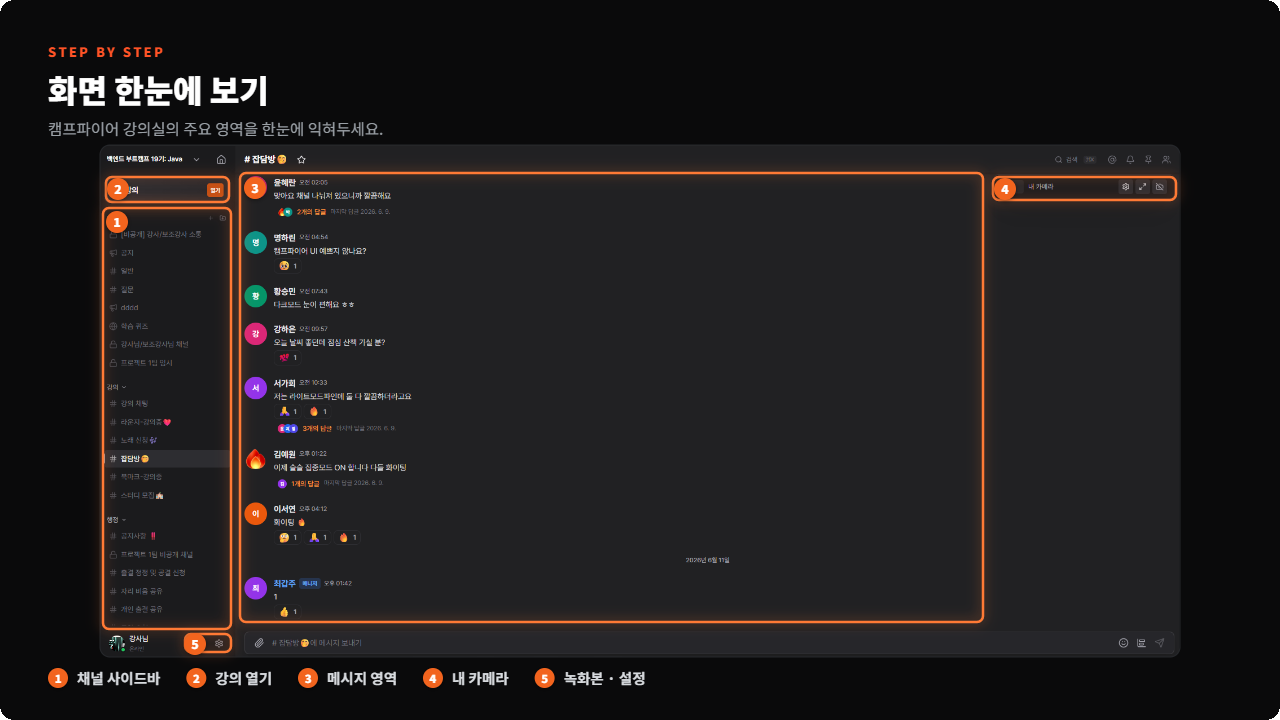
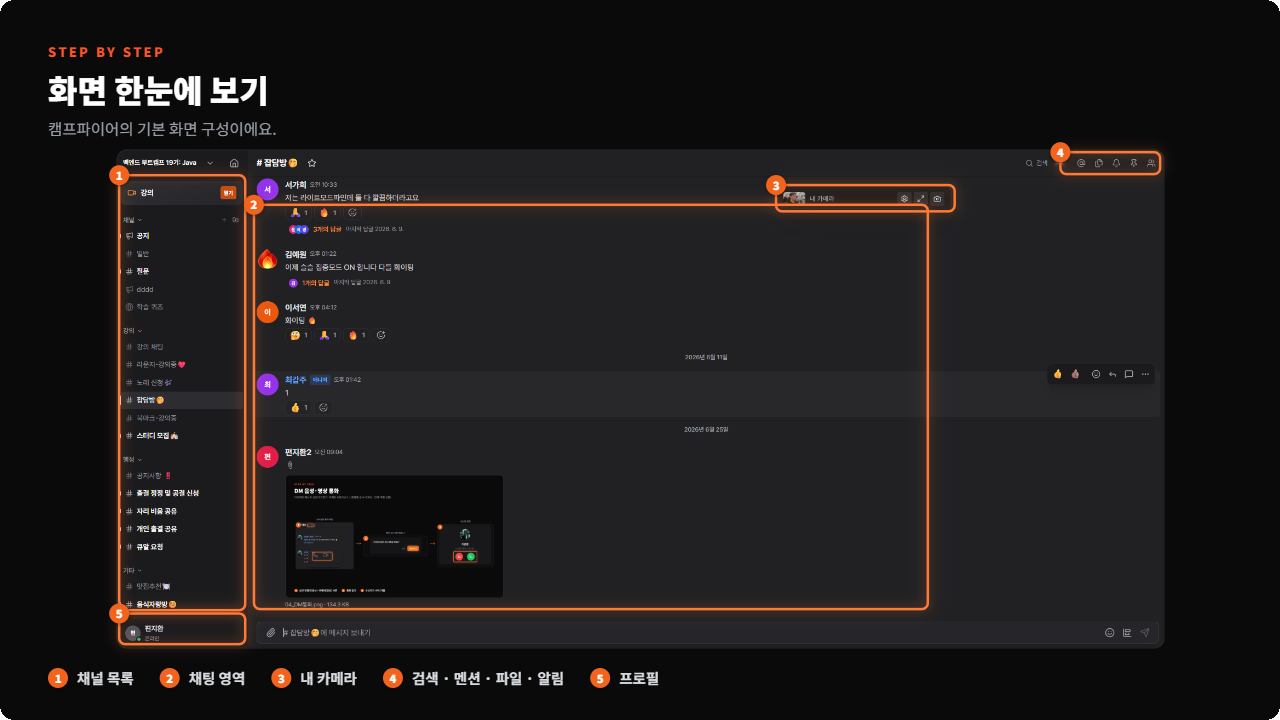
docs(campfire-guide): 채널 파일 모아보기 기능 추가 + 화면 구성 이미지 교체
- 채널 파일 모아보기 신규 섹션 3종(매니저 s3-2·강사 i3-1·수강생 s3-1)
  상단 파일 버튼 → [파일] 패널에서 채널 파일 목록·검색·다운로드
- 화면 한눈에 보기 이미지 교체(매니저용/수강생·강사용 분리), 툴바 파일 버튼 반영
- 화면 구성 설명 우측 상단 아이콘에 '멤버' 앞 파일 추가(검색·멘션·파일·알림·멤버)
- 파일 모아보기 스크린샷 3장 신규 (총 52장)

diff --git a/campfire/1-planning/campfire-guide/manager-data.js b/campfire/1-planning/campfire-guide/manager-data.js
@@ -143,7 +143,7 @@ const GUIDE_DATA = [
       {
         id: "s3-1", title: "화면 한눈에 보기",
         html: `
-          <div class="callout callout--tip"><span class="callout__ico">💡</span><div>디스코드를 써봤다면 구조가 거의 동일합니다. 왼쪽에서 오른쪽으로: <strong>채널 목록(사이드바) → 대화 영역 → 우측 상단 아이콘(검색·알림·멤버)</strong>.</div></div>
+          <div class="callout callout--tip"><span class="callout__ico">💡</span><div>디스코드를 써봤다면 구조가 거의 동일합니다. 왼쪽에서 오른쪽으로: <strong>채널 목록(사이드바) → 대화 영역 → 우측 상단 아이콘(검색·멘션·파일·알림·멤버)</strong>.</div></div>
           <dl class="anatomy">
             <dt>① 사이드바 (좌측)</dt>
             <dd>
@@ -162,10 +162,23 @@ const GUIDE_DATA = [
             <dd>우측 상단 멤버 아이콘(👥) 클릭 시 표시. <strong>역할별로 구분</strong>되어 보입니다: 매니저 / 강사 / 보조강사 / 멘토 / 수강생.</dd>
             <dt>④ 화상 채널 영역</dt>
             <dd>사이드바 화상 채널 카테고리에 모여 있음 (예: 프로젝트 1~4팀, 회고방). 상세는 7장.</dd>
-            <dt>⑤ 검색 / 알림 (우측 상단)</dt>
-            <dd>🔍 검색(단축키) / @ 멘션 모아보기 / 🔔 알림 / 📌 고정된 메시지</dd>
+            <dt>⑤ 검색 / 파일 / 알림 (우측 상단)</dt>
+            <dd>🔍 검색(단축키) / @ 멘션 모아보기 / 📁 파일(채널 파일 모아보기·3-2) / 🔔 알림 / 📌 고정된 메시지</dd>
           </dl>
           <div class="shot">📸 스크린샷: 전체 화면에 ①~⑤ 번호를 오버레이한 이미지 1장</div>
+        `,
+      },
+      {
+        id: "s3-2", title: "채널 파일 모아보기",
+        html: `
+          <p>채널 <strong>상단 우측 툴바의 파일 버튼(📁)</strong>을 누르면, 그 채널에 올라온 <strong>모든 파일을 한 곳에서 모아보고 다운로드</strong>할 수 있습니다. (위치: 검색 · @멘션 · <strong>파일</strong> · 알림 사이)</p>
+          <ol>
+            <li>채널 <strong>상단 우측의 파일 버튼</strong> 클릭</li>
+            <li>오른쪽에 <strong>[파일] 패널</strong>이 열리며 채널의 파일 목록이 표시됩니다.</li>
+            <li><strong>파일명 검색</strong>으로 원하는 파일을 찾고, 각 파일의 <strong>다운로드(⬇) 아이콘</strong>으로 저장합니다.</li>
+          </ol>
+          <div class="callout callout--tip"><span class="callout__ico">💡</span><div>과제·자료가 채팅에 묻혀 찾기 어려울 때, 파일 버튼으로 채널별 자료를 한눈에 모아 관리하세요.</div></div>
+          <div class="shot">📸 스크린샷: 상단 파일 버튼 → 채널 파일 목록·검색·다운로드</div>
         `,
       },
     ],

diff --git a/campfire/1-planning/campfire-guide/instructor-data.js b/campfire/1-planning/campfire-guide/instructor-data.js
@@ -87,7 +87,7 @@ const GUIDE_DATA = [
     sections:[
       { id:"i3-0", title:"화면 한눈에 보기",
         html:`
-          <div class="callout callout--tip"><span class="callout__ico">💡</span><div>디스코드와 구조가 거의 같습니다. 왼쪽에서 오른쪽으로: <strong>채널 목록 → 대화 영역 → 우측 상단 아이콘(검색·알림·멤버)</strong>.</div></div>
+          <div class="callout callout--tip"><span class="callout__ico">💡</span><div>디스코드와 구조가 거의 같습니다. 왼쪽에서 오른쪽으로: <strong>채널 목록 → 대화 영역 → 우측 상단 아이콘(검색·멘션·파일·알림·멤버)</strong>.</div></div>
           <ul>
             <li><strong>① 사이드바</strong>: 최상단 현재 훈련(공간) 이름, 그 아래 <strong>[강의] 카드</strong>(열기/Live), 카테고리별 채널, 화상 채널, 하단 DM·내 프로필</li>
             <li><strong>② 메시지 영역</strong>: 메시지 스트림, 하단 입력창(📎 첨부·이모지), [최하단으로 이동]</li>
@@ -96,6 +96,15 @@ const GUIDE_DATA = [
             <li>강사에게만 보이는 컨트롤: <strong>[강의] 카드의 [열기] 버튼</strong> (강의 개설은 매니저·강사만)</li>
           </ul>
           <div class="shot">📸 스크린샷: 강사 화면 전체, ①~④ 번호 오버레이</div>` },
+      { id:"i3-1", title:"채널 파일 모아보기",
+        html:`
+          <p>채널 상단 우측 <strong>파일 버튼(📁)</strong>으로 그 채널의 <strong>모든 파일을 모아보고 다운로드</strong>할 수 있습니다. (검색 · @멘션 · <strong>파일</strong> · 알림 사이)</p>
+          <ol>
+            <li>채널 상단 우측 툴바의 <strong>파일 버튼</strong> 클릭</li>
+            <li>오른쪽 <strong>[파일] 패널</strong>에 파일 목록 표시 → <strong>파일명 검색</strong> + <strong>다운로드(⬇)</strong></li>
+          </ol>
+          <div class="callout callout--tip"><span class="callout__ico">💡</span><div>수업 자료·과제 파일을 채널별로 한눈에 모아 확인·공유할 수 있어요.</div></div>
+          <div class="shot">📸 스크린샷: 상단 파일 버튼 → 채널 파일 목록·검색·다운로드</div>` },
     ],
   },
   {

diff --git a/campfire/1-planning/campfire-guide/student-data.js b/campfire/1-planning/campfire-guide/student-data.js
@@ -93,6 +93,16 @@ const GUIDE_DATA = [
             </tbody>
           </table>
           <div class="callout callout--tip"><span class="callout__ico">💡</span><div>채널 구성은 과정마다 조금씩 달라요. 맨 위 [강의] 버튼은 <strong>강사님이 여는 정식 수업</strong>, 🎤 화상 채널은 <strong>팀별 모임</strong>용이에요.</div></div>` },
+      { id:"s3-1", title:"채널 파일 모아보기",
+        html:`
+          <p>채널 <strong>맨 위 오른쪽 파일 버튼(📁)</strong>을 누르면, 그 채널에 올라온 <strong>파일을 한 곳에서 모아보고 다운로드</strong>할 수 있어요.</p>
+          <ol>
+            <li>채널 <strong>오른쪽 위 파일 버튼</strong>을 눌러요.</li>
+            <li>오른쪽에 <strong>[파일] 목록</strong>이 열려요.</li>
+            <li><strong>파일명으로 검색</strong>하고, <strong>다운로드(⬇)</strong>로 저장하면 돼요.</li>
+          </ol>
+          <div class="callout callout--tip"><span class="callout__ico">💡</span><div>강의 자료·과제 파일이 채팅에 묻혔을 때, 파일 버튼으로 한 번에 찾을 수 있어요!</div></div>
+          <div class="shot">📸 스크린샷: 상단 파일 버튼 → 채널 파일 목록·검색·다운로드</div>` },
     ],
   },
   {

diff --git a/campfire/1-planning/campfire-guide/images/_README-스크린샷-목록.md b/campfire/1-planning/campfire-guide/images/_README-스크린샷-목록.md
@@ -9,7 +9,8 @@
 | `manager-s2-1-1.png` | 2.시작하기 · 계정 & 입장 구조 이해하기 | 프로필 > 캠프파이어 앱 받기 모달 (데스크톱 + 모바일 QR) | ✅ |
 | `manager-s2-4-1.png` | 2.시작하기 · 알림 설정 | 기본 알림 설정 (프로필 > 설정 > 알림 — 멘션만) | ✅ |
 | `manager-s2-4-2.png` | 2.시작하기 · 알림 설정 | 채널별 알림 설정 (채널 케밥 메뉴) | ✅ |
-| `manager-s3-1-1.png` | 3.화면 구성 · 화면 한눈에 보기 | 전체 화면에 ①~⑤ 번호를 오버레이한 이미지 1장 | ✅ |
+| `manager-s3-1-1.png` | 3.화면 구성 · 화면 한눈에 보기 | 전체 화면 ①~⑤ 오버레이 (④ 검색·멘션·파일·알림 포함) | ✅ |
+| `manager-s3-2-1.png` | 3.화면 구성 · 채널 파일 모아보기 | 상단 파일 버튼 → 채널 파일 목록·검색·다운로드 패널 | ✅ |
 | `manager-s4-1-1.png` | 4.채널 관리 · 채널 종류 이해하기 (QR 확인) | 매니저 [모니터링] 버튼 > [QR 조회] 탭 (수강생 QR 인증 기록) | ✅ |
 | `manager-s4-2-1.png` | 4.채널 관리 · 채널 만들기 | [+] 버튼 위치 / 채널 만들기 모달 / 비공개 설정 + 멤버·그룹 초대 | ✅ |
 | `manager-s4-3-1.png` | 4.채널 관리 · 채널 권한 설정 (공개·비공개·익명) | 채널 권한 설정 화면 | ✅ |
@@ -28,7 +29,7 @@
 | `manager-s8-5-1.png` | 8.운영 팁 모음 · 공간 기본 설정 (설정 > 일반) | 설정 > 일반 — 홈페이지 URL·배너 | ✅ |
 | `manager-s8-6-1.png` | 8.운영 팁 모음 · 카메라 자동 캡처 (출석 확인) | 설정 > 일반 — 카메라 자동 캡처 규칙·제외일 | ✅ |
 
-→ 매니저: 22장
+→ 매니저: 23장
 
 ## 강사 (instructor-data.js)
 
@@ -39,7 +40,8 @@
 | `instructor-i2-3-1.png` | 2.시작하기 · 오디오 / 비디오 장치 점검 ⭐ 첫 수업 전 필수 | 강의 입장 화면의 장치 선택 드롭다운 | ✅ |
 | `instructor-i2-4-1.png` | 2.시작하기 · 알림 설정 | 기본 알림 설정 (프로필 > 설정 > 알림 — 멘션만) | ✅ |
 | `instructor-i2-4-2.png` | 2.시작하기 · 알림 설정 | 채널별 알림 설정 (채널 케밥 메뉴) | ✅ |
-| `instructor-i3-0-1.png` | 3.화면 구성 (강사 시점) · 화면 한눈에 보기 | 강사 화면 전체, ①~④ 번호 오버레이 | ✅ |
+| `instructor-i3-0-1.png` | 3.화면 구성 (강사 시점) · 화면 한눈에 보기 | 화면 전체 오버레이 (④ 검색·멘션·파일·알림 포함) | ✅ |
+| `instructor-i3-1-1.png` | 3.화면 구성 (강사 시점) · 채널 파일 모아보기 | 상단 파일 버튼 → 채널 파일 목록·검색·다운로드 패널 | ✅ |
 | `instructor-i4-0-1.png` | 4.수업 전 준비 · 수업 전 체크리스트 | 파일 업로드(📎) 화면 | ✅ |
 | `instructor-i5-1-1.png` | 5.화상 수업 진행하기 ⭐ · 강의 시작하기 | 강의 열기 및 참여 화면 | ✅ |
 | `instructor-i5-6-1.png` | 5.화상 수업 진행하기 ⭐ · 수강생 호출 (미입장자 알림) | 더보기 > 수강생 호출 → 메시지 작성·발송 | ✅ |
@@ -48,7 +50,7 @@
 | `instructor-i5-5-1.png` | 5.화상 수업 진행하기 ⭐ · 녹화 & AI 요약 | 강의 > 녹화 탭 | ✅ |
 | `instructor-i6-1-1.png` | 6.수업 중 소통 · 1:1 통화 (DM 음성·화상) | DM 1:1 통화 (걸기 · 다이얼로그 · 수신) | ✅ |
 
-→ 강사: 13장
+→ 강사: 14장
 
 ## 수강생 (student-data.js)
 
@@ -59,7 +61,8 @@
 | `student-s2-3-1.png` | 2.시작하기 (첫날 따라하기) ⭐ · 더 편하게 쓰기 (앱 & 알림) | 프로필 > 캠프파이어 앱 받기 (데스크톱 + 모바일 QR) | ✅ |
 | `student-s2-4-1.png` | 2.시작하기 (첫날 따라하기) ⭐ · 알림 설정 | 기본 알림 설정 (프로필 > 설정 > 알림 — 멘션만) | ✅ |
 | `student-s2-4-2.png` | 2.시작하기 (첫날 따라하기) ⭐ · 알림 설정 | 채널별 알림 설정 (채널 케밥 메뉴) | ✅ |
-| `student-s3-0-1.png` | 3.화면 둘러보기 · 화면 구성 & 주요 채널 | 전체 화면 + ①~③ 번호 표시 | ✅ |
+| `student-s3-0-1.png` | 3.화면 둘러보기 · 화면 구성 & 주요 채널 | 전체 화면 오버레이 (④ 검색·멘션·파일·알림 포함) | ✅ |
+| `student-s3-1-1.png` | 3.화면 둘러보기 · 채널 파일 모아보기 | 상단 파일 버튼 → 채널 파일 목록·검색·다운로드 패널 | ✅ |
 | `student-s4-2-1.png` | 4.채팅 사용하기 · 스레드 — 질문할 때 이렇게! | 스레드 열기 버튼 | ✅ |
 | `student-s4-3-1.png` | 4.채팅 사용하기 · 파일 & 코드 올리기 | 파일 업로드 | ✅ |
 | `student-s4-4-1.png` | 4.채팅 사용하기 · 1:1 통화 (DM 음성·화상) | DM 1:1 통화 (걸기 · 다이얼로그 · 수신) | ✅ |
@@ -68,7 +71,7 @@
 | `student-s5-2-1.png` | 5.화상 수업 참여하기 ⭐ · 수업 중 기능 (화면 아래 버튼들) | 이해도 체크 (강사 진행 / 수강생 응답) | ✅ |
 | `student-s5-5-1.png` | 5.화상 수업 참여하기 ⭐ · 조퇴·외출할 때 (QR 스스로 받기) | QR 확인 채널 — 얼굴 인증 + [QR 확인하기] | ✅ |
 
-→ 수강생: 14장
+→ 수강생: 15장
 
 ---
-**총 49장 중 49장 완료**
+**총 52장 중 52장 완료**
